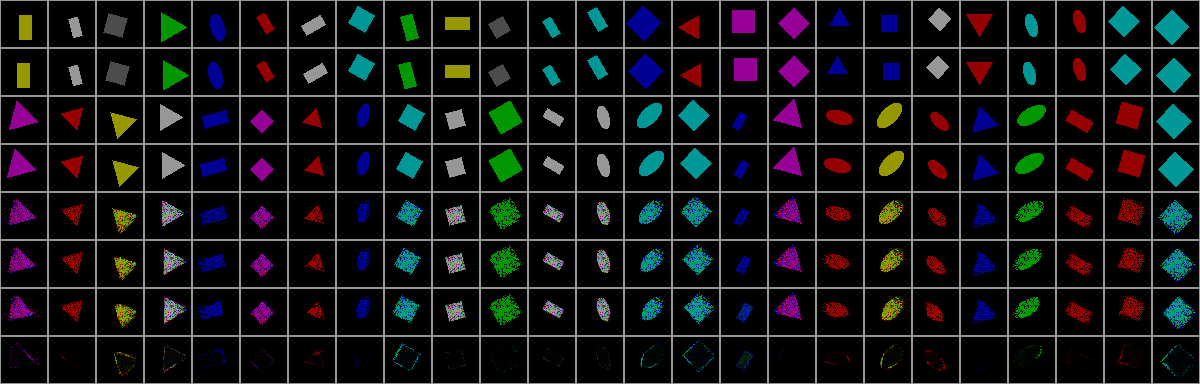
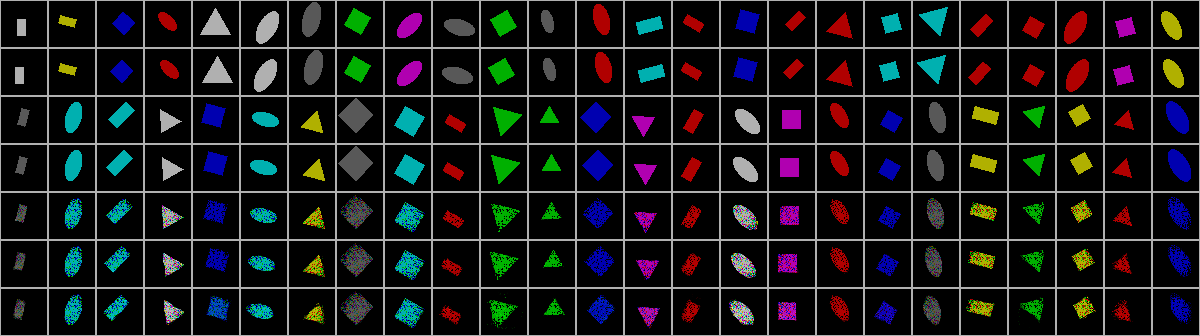
remove difference from results

diff --git a/utils.py b/utils.py
@@ -10,7 +10,7 @@ strfnow = lambda: strftime("%Y-%m-%d %H:%M:%S", gmtime())
 def merge(*images):
   images = list(images)
   # For difference between target and inferenced image
-  images.append(abs(images[-2] - images[-1]))
+  # images.append(abs(images[-2] - images[-1]))
 
   h, w = images[0].shape[1], images[0].shape[2]
   h_count, w_count = len(images), len(images[0])

diff --git a/README.md b/README.md
@@ -48,7 +48,7 @@ Results
 
 Result of analogy transformations of `shape` dataset with fully connected layers (L_deep).
 
-*Reference*, *output*, *query*, *target*, *prediction*, *manifold prediction after 2 step*, *manifold prediction after 3 step* and *difference*, in order from top to bottom in each image.
+*Reference*, *output*, *query*, *target*, *prediction*, *manifold prediction after 2 step*, and *manifold prediction after 3 step* *, in order from top to bottom in each image.
 
 - Change on angle
 
